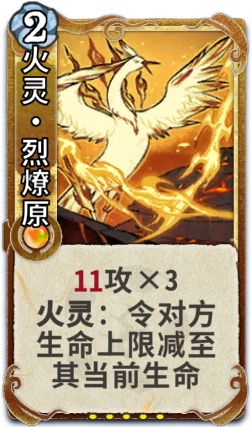
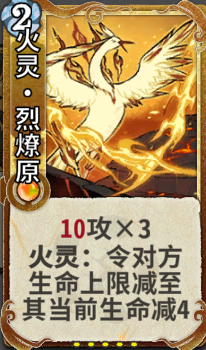
万花阵 更新；列燎原 更新；

diff --git a/index.html b/index.html
@@ -93,11 +93,9 @@
     </div>
     <div class="selection"></div>
   </div>
-  <p>战报-反馈-携带战报及...</p>
   <p>战报增加敌人卡牌（卡组以及每回合使用的卡）</p>
-  <p>增加热更逻辑</p>
-  <p>万花阵 更新</p>
-  <p>列燎原 更新</p>
+  <p>战报-反馈-携带战报及...</p>
+  <p>从自己卡组和对方卡组之间切换会切换当前角色/职业</p>
   <p>搜索器+开关：切换详细/简略。详细描述下会附带</p>
   <p>增加Q群入口</p>
   <p></p>
@@ -106,7 +104,6 @@
     <p>增加候牌区()</p>
     <p>推荐牌战报增加标识(赢/输 多少回合)</p>
     <p>设置自己/对手属性</p>
-    <p>从自己卡组和对方卡组之间切换会切换当前角色/职业</p>
     <p>优化角色使用和职业使用</p>
   </div>
   <div class="Console hide">

diff --git a/src/Buff.ts b/src/Buff.ts
@@ -696,7 +696,13 @@ export class ZhenMillionFlowerBuff extends ABuff {
     }
     effect(stage: BES) {
         if (stage == BES.RoundEnd) {
-            this._owner.GetAnother().AddBuffById(BuffId.Depower, 1, this.id)
+            const he = this._owner.GetAnother();
+            he.AddBuffById(BuffId.Depower, 1, this.id);
+            const num = he.NumOf(BuffId.Depower);
+            if (num > 0) {
+                he.CutHp(num, this.id);
+                this._owner.AddHp(num, this.id);
+            }
             this._owner.AddBuffById(this.id, -1, "消耗");
         }
     }
